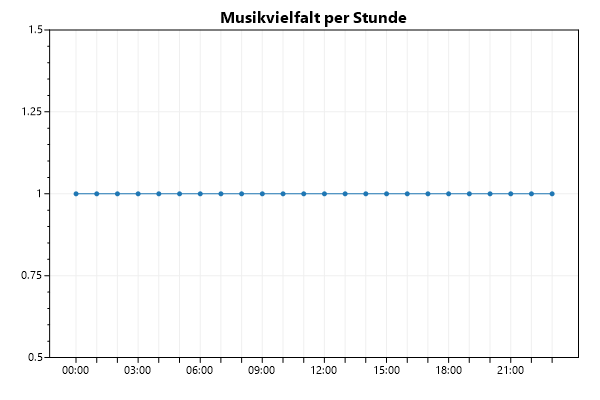
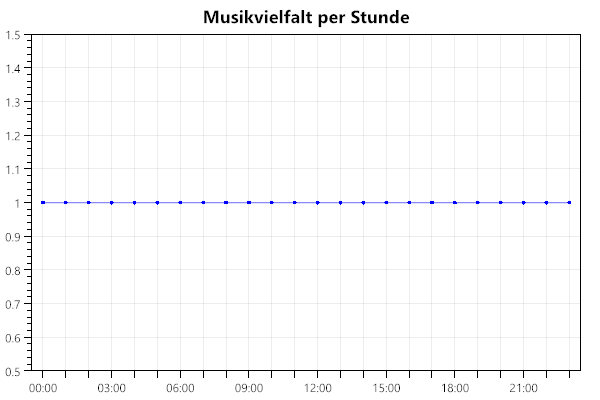
port to oxyplot

diff --git a/Backend/Statistics.cs b/Backend/Statistics.cs
@@ -1,8 +1,13 @@
 using Backend.Entities;
 using Microsoft.EntityFrameworkCore;
-using ScottPlot;
+using OxyPlot;
+using OxyPlot.Axes;
+using OxyPlot.Series;
+using Svg;
 using System;
 using System.Collections.Generic;
+using System.Drawing;
+using System.IO;
 using System.Linq;
 using System.Text;
 using System.Threading.Tasks;
@@ -48,27 +53,79 @@ namespace Backend
 
         public static byte[] SongVarietyByHourPlot(DateTime from, DateTime to)
         {
-            const string FONT_NAME = "arial";
             var varietyByHour = SongVarietyByHour(from, to);
-            var plt = new Plot(600, 400);
-            var labels = varietyByHour.Select(vbh => vbh.Item1.ToString("HH:mm")).ToArray();
-            // take every other element
-            labels = labels.Select((l, i) => i % 3 == 0 ? l : string.Empty).ToArray();
-            plt.XTicks(labels);
-            var values = varietyByHour.Select(vbh => vbh.Item2).ToArray();
-            plt.AddScatter(
-                Enumerable.Range(0, varietyByHour.Count).Select(i => (double)i).ToArray(), 
-                values);
-            plt.Title("Musikvielfalt per Stunde");
-            // set yrange to 0.5, 1.5
-            var ymin = Math.Min(0.5, values.Min());
-            var ymax = Math.Max(1.5, values.Max());
-            plt.SetAxisLimitsY(ymin, ymax);
 
-            plt.XAxis.LabelStyle(fontName: FONT_NAME);
-            plt.YAxis.LabelStyle(fontName: FONT_NAME);
-            return plt.GetImageBytes();
+
+            const double GRID_HORIZONTAL_INTERVAL = 0.1;
+            const byte GRID_LINE_ALPHA = 40;
+            var line = new LineSeries()
+            {
+                Color = OxyColors.Blue,
+                StrokeThickness = 1,
+                MarkerSize = 2,
+                MarkerType = MarkerType.Circle,
+            };
+            var values = varietyByHour.Select(vbh => vbh.Item2).ToArray();
+            for (var i = 0; i < varietyByHour.Count; i++)
+                line.Points.Add(new DataPoint(i, values[i]));
+
+
+            var model = new PlotModel
+            {
+                Title = "Musikvielfalt per Stunde",
+                Background = OxyColors.White,
+            };
+            model.Series.Add(line);
+
+            var xAxis = new CategoryAxis()
+            {
+                Position = AxisPosition.Bottom,
+                IsTickCentered = true,
+                ExtraGridlines = Enumerable.Range(0, 24).Select(i => (double)i).ToArray(),
+                ExtraGridlineColor = OxyColor.FromAColor(GRID_LINE_ALPHA, OxyColors.Black),
+            };
+            var labels = varietyByHour.Select(vbh => vbh.Item1.ToString("HH:mm")).ToArray();
+            // take only ever k entry
+            labels = labels.Select((l, i) => i % 3 == 0 ? l : string.Empty).ToArray();
+            foreach (var label in labels)
+                xAxis.ActualLabels.Add(label);
+            model.Axes.Add(xAxis);
+
+            // set range to at least [0.5, 1.5] (bigger if bigger values occour)
+            var xmin = Math.Min(0.5, values.Min());
+            var xmax = Math.Max(1.5, values.Max());
+            var gridlinesAbove = Enumerable.Range(1, (int)((xmax - 1) / GRID_HORIZONTAL_INTERVAL)).Select(i => 1 + i * GRID_HORIZONTAL_INTERVAL);
+            var gridlinesBelow= Enumerable.Range(1, (int)((1 - xmin) / GRID_HORIZONTAL_INTERVAL)).Select(i => 1 - i * GRID_HORIZONTAL_INTERVAL);
+            var yAxis = new LinearAxis()
+            {
+                Minimum = xmin,
+                Maximum = xmax,
+                MajorStep = GRID_HORIZONTAL_INTERVAL,
+                AbsoluteMinimum = xmin,
+                AbsoluteMaximum = xmax,
+                ExtraGridlines = gridlinesAbove.Concat(gridlinesBelow).ToArray(),
+                ExtraGridlineColor = OxyColor.FromAColor(GRID_LINE_ALPHA, OxyColors.Black),
+            };
+            model.Axes.Add(yAxis);
+
+            using var stream = new MemoryStream();
+            var exporter = new SvgExporter 
+            { 
+                Width = 600, 
+                Height = 400, 
+                UseVerticalTextAlignmentWorkaround = true,
+                IsDocument = true,
+            };
+            exporter.Export(model, stream);
+            stream.Position = 0;
+
+            var loadedSvg = SvgDocument.Open<SvgDocument>(stream);
+            var bmp = loadedSvg.Draw();
+            using var convertStream = new MemoryStream();
+            bmp.Save(convertStream, System.Drawing.Imaging.ImageFormat.Png);
+            return convertStream.ToArray();
         }
+
         public static List<(DateTime, double)> SongVarietyByHour(DateTime from, DateTime to)
         {
             // calculate frequency of song in timeframe
@@ -153,27 +210,28 @@ namespace Backend
 
         public static byte[] AverageDailySongVarietyByHourPlot(DateTime from, DateTime to)
         {
-            var varietyByHour = AverageDailySongVarietyByHour(from, to);
-            var plt = new Plot(600, 200);
-            var labels = varietyByHour.Select(vbh => vbh.Item1.ToString("HH:mm")).ToArray();
-            // take every other element
-            labels = labels.Select((l, i) => i % 3 == 0 ? l : string.Empty).ToArray();
-            plt.XTicks(labels);
-            var values = varietyByHour.Select(vbh => vbh.Item2).ToArray();
-            var stds = varietyByHour.Select(vbh => vbh.Item3).ToArray();
-            plt.AddScatter(
-                Enumerable.Range(0, varietyByHour.Count).Select(i => (double)i).ToArray(),
-                values);
-            plt.AddFill(
-                Enumerable.Range(0, varietyByHour.Count).Select(i => (double)i).ToArray(),
-                varietyByHour.Select(vbh => vbh.Item2 - vbh.Item3).ToArray(),
-                varietyByHour.Select(vbh => vbh.Item2 + vbh.Item3).ToArray());
-            plt.Title($"Durchschnittliche Musikvielfalt per Stunde {from.Year}");
-            // set yrange to 0.5, 1.5
-            var ymin = Math.Min(0.5, values.Min());
-            var ymax = Math.Max(1.5, values.Max());
-            plt.SetAxisLimitsY(ymin, ymax);
-            return plt.GetImageBytes();
+            throw new NotImplementedException();
+            //var varietyByHour = AverageDailySongVarietyByHour(from, to);
+            //var plt = new Plot(600, 200);
+            //var labels = varietyByHour.Select(vbh => vbh.Item1.ToString("HH:mm")).ToArray();
+            //// take every other element
+            //labels = labels.Select((l, i) => i % 3 == 0 ? l : string.Empty).ToArray();
+            //plt.XTicks(labels);
+            //var values = varietyByHour.Select(vbh => vbh.Item2).ToArray();
+            //var stds = varietyByHour.Select(vbh => vbh.Item3).ToArray();
+            //plt.AddScatter(
+            //    Enumerable.Range(0, varietyByHour.Count).Select(i => (double)i).ToArray(),
+            //    values);
+            //plt.AddFill(
+            //    Enumerable.Range(0, varietyByHour.Count).Select(i => (double)i).ToArray(),
+            //    varietyByHour.Select(vbh => vbh.Item2 - vbh.Item3).ToArray(),
+            //    varietyByHour.Select(vbh => vbh.Item2 + vbh.Item3).ToArray());
+            //plt.Title($"Durchschnittliche Musikvielfalt per Stunde {from.Year}");
+            //// set yrange to 0.5, 1.5
+            //var ymin = Math.Min(0.5, values.Min());
+            //var ymax = Math.Max(1.5, values.Max());
+            //plt.SetAxisLimitsY(ymin, ymax);
+            //return plt.GetImageBytes();
         }
         public static List<(DateTime, double, double)> AverageDailySongVarietyByHour(DateTime from, DateTime to)
         {

diff --git a/Backend.Tests/StatisticsTests.cs b/Backend.Tests/StatisticsTests.cs
@@ -51,6 +51,7 @@ namespace Backend.Tests
             DatabaseOperations.UpdateDb(from, till);
 
             var image = Statistics.SongVarietyByHourPlot(from, till);
+            // File.WriteAllBytes("variety.png", image);
             var expected = File.ReadAllBytes("Resources/variety.png");
             Assert.AreEqual(expected, image);
         }
@@ -61,6 +62,7 @@ namespace Backend.Tests
             var till = from + TimeSpan.FromDays(1);
 
             var image = Statistics.SongVarietyByHourPlot(from, till);
+            // File.WriteAllBytes("no_events_songvariety.png", image);
             var expected = File.ReadAllBytes("Resources/no_events_songvariety.png");
             Assert.AreEqual(expected, image);
         }

diff --git a/Tweeter/TweeterService.cs b/Tweeter/TweeterService.cs
@@ -65,12 +65,13 @@ namespace Tweeter
         {
             try
             {
+                var startTime = DateTime.Now;
                 Log.Information("updating db");
                 DatabaseOperations.UpdateDb();
 
                 await TweetStatistics(DateTime.Now);
                 
-                Log.Information($"next tweet time: {DateTime.Now + TWEET_INTERVAL}");
+                Log.Information($"next tweet time: {startTime + TWEET_INTERVAL}");
             }
             catch(Exception e)
             {

diff --git a/Backend/Plotter.cs b/Backend/Plotter.cs
@@ -1,0 +1,17 @@
+using System;
+using System.Collections.Generic;
+using System.Linq;
+using System.Text;
+using System.Threading.Tasks;
+
+namespace Backend
+{
+    public static class Plotter
+    {
+        public static byte[] GetPlot()
+        {
+            // TODO
+            return null;
+        }
+    }
+}
